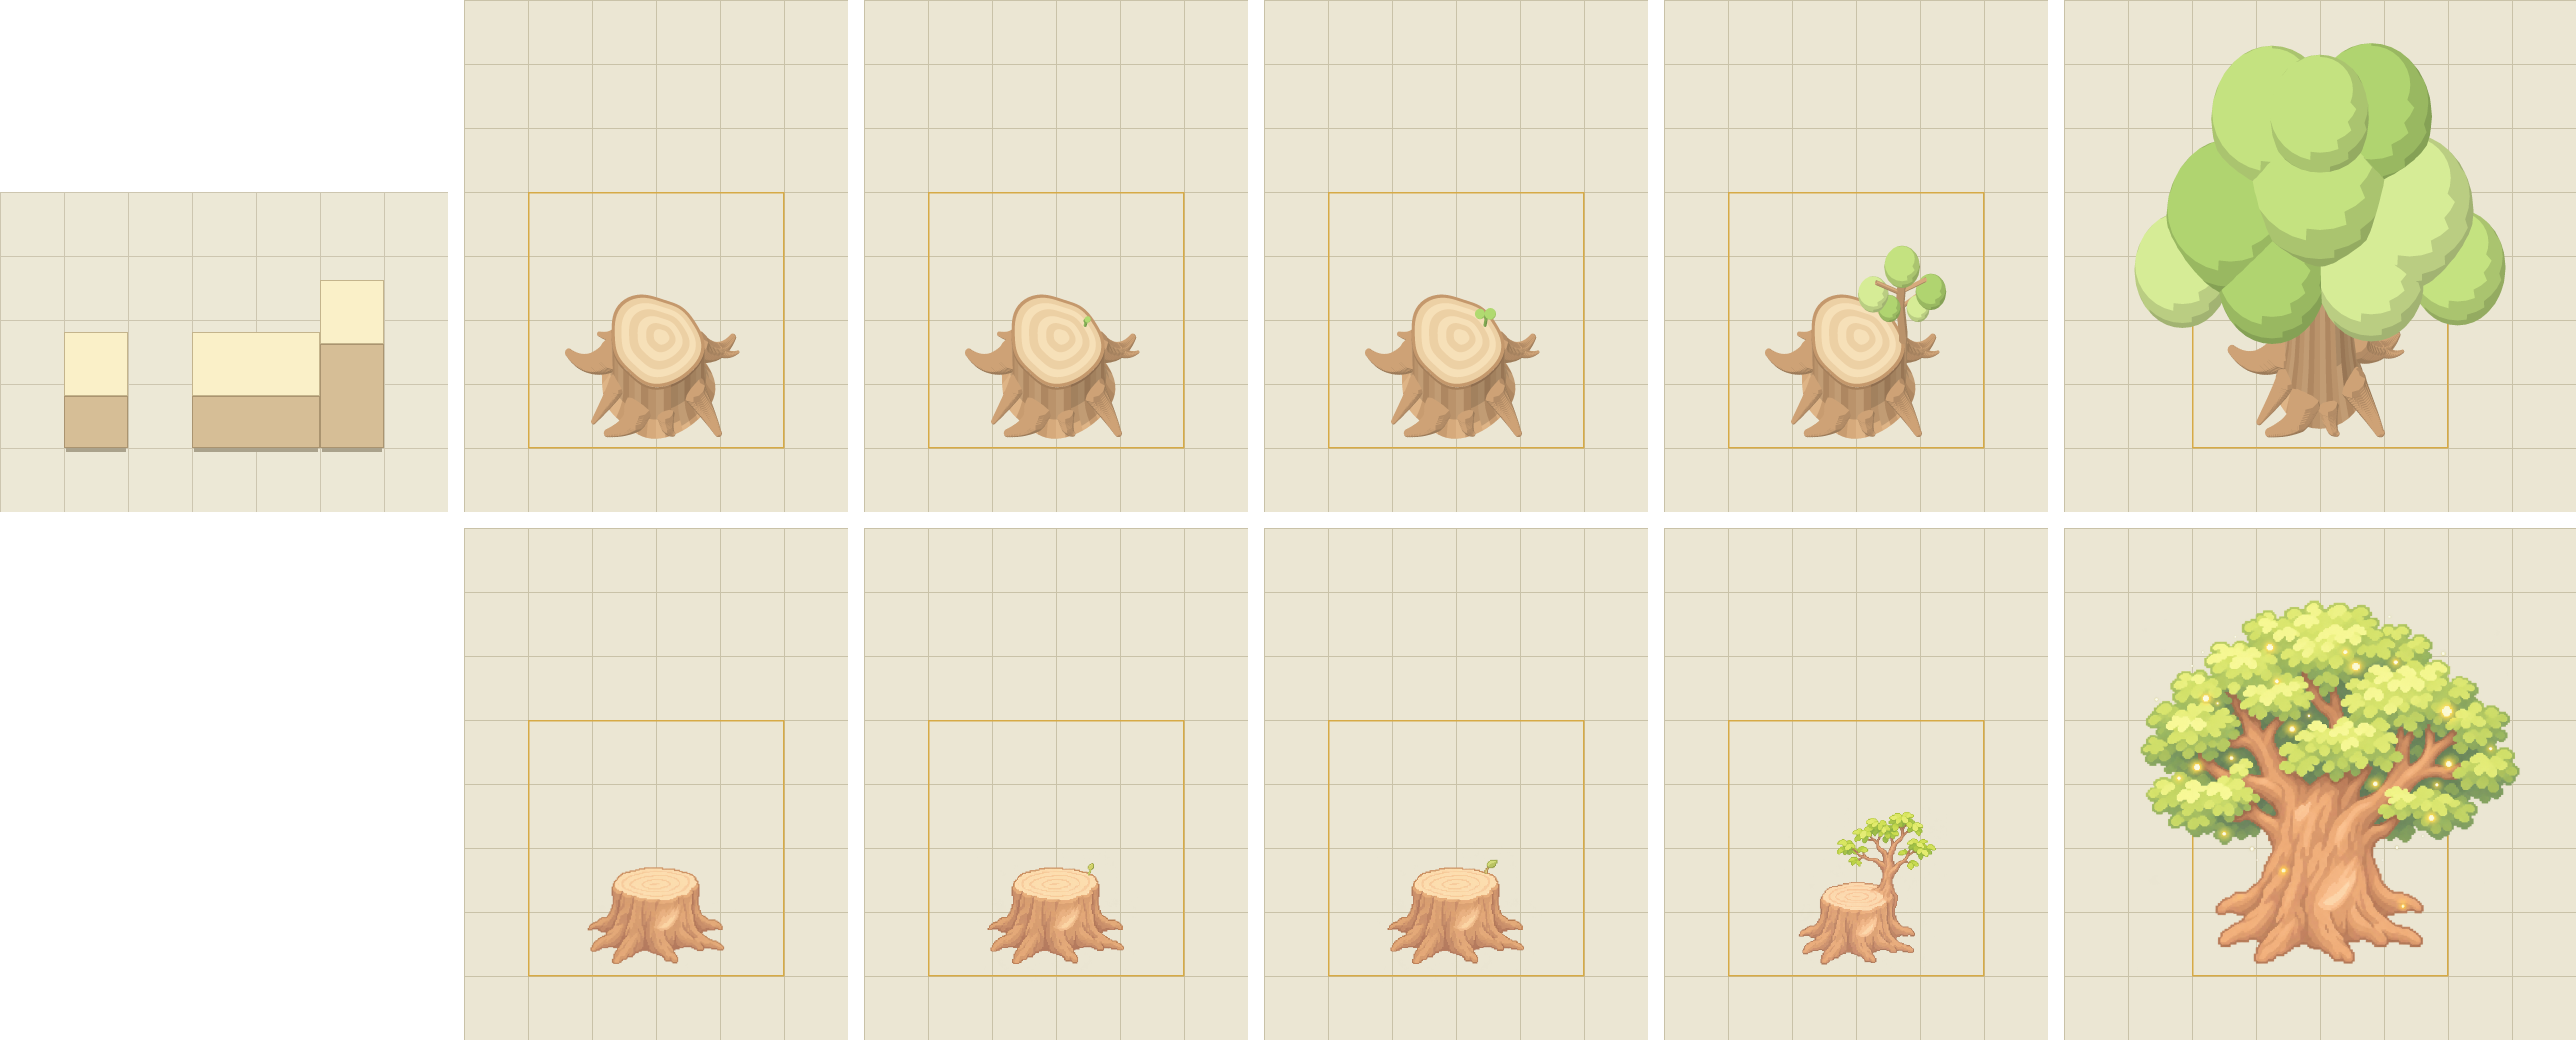
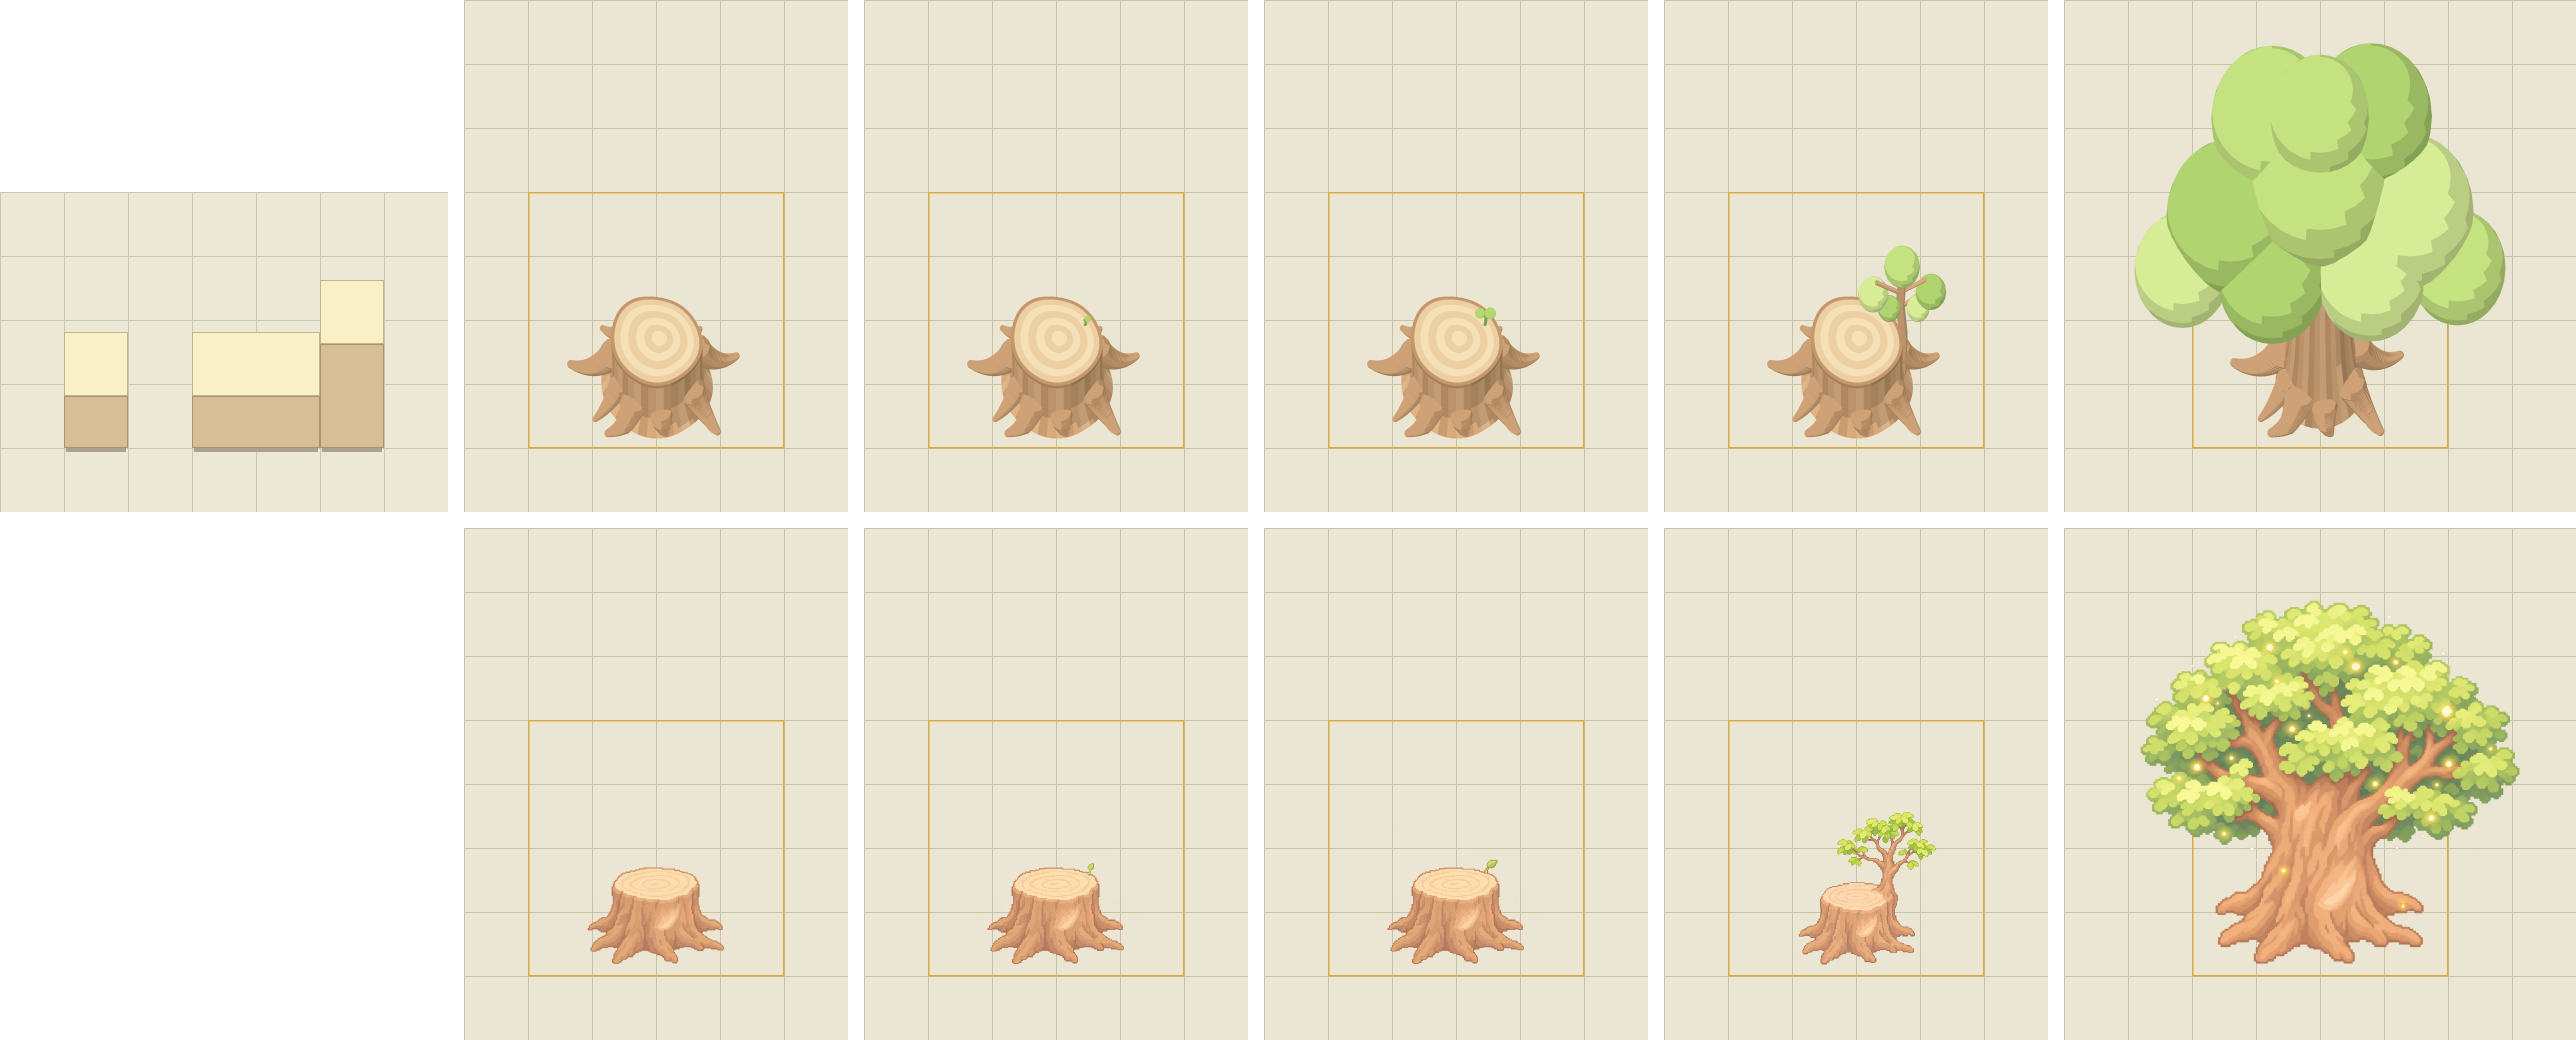
御神木のお手本：切り株と根のふぞろいを、いまの絵くらいにひかえる
Claude-Session: https://claude.ai/code/session_01JdcgfQYUXA3eiGLm8RY2PA

diff --git a/tools/art/sacred-tree/sacred3d.py b/tools/art/sacred-tree/sacred3d.py
@@ -13,11 +13,11 @@ LEAF=[(196,226,128),(176,212,112),(214,236,150)]   # 葉のかたまり
 
 def rough(a):
     """切り株・幹の、でこぼこの外がわ（まん丸にしない）。1が平均"""
-    return 1+0.06*math.sin(2*a+0.6)+0.04*math.sin(3*a+2.1)+0.02*math.sin(5*a+0.3)+0.008*math.sin(7*a+1.3)
+    return 1+0.035*math.sin(2*a+0.6)+0.02*math.sin(3*a+2.1)+0.01*math.sin(5*a+0.3)
 
-# 根：(向き, 長さ, 太さ, まがり, えだわかれ)。向きはばらばら、長さも太さもちがう。手前（+y）は y=3.81 をこえない
-ROOTS=[(-3.0,0.8,0.21,0.35,1),(-2.35,0.45,0.12,-0.2,0),(-1.75,0.55,0.15,0.3,0),(-0.95,0.4,0.11,-0.1,0),
-       (-0.35,0.75,0.19,-0.35,1),(0.55,0.6,0.18,0.3,0),(1.35,0.3,0.13,-0.2,0),(2.0,0.7,0.2,0.35,0),(2.7,0.5,0.14,-0.25,0)]
+# 根：(向き, 長さ, 太さ, まがり, えだわかれ)。いまの絵くらいの、ひかえめなふぞろい。手前（+y）は y=3.81 をこえない
+ROOTS=[(-3.0,0.7,0.2,0.15,1),(-2.3,0.5,0.15,-0.1,0),(-1.6,0.45,0.15,0.1,0),(-0.85,0.45,0.14,-0.1,0),
+       (-0.25,0.65,0.19,-0.15,0),(0.6,0.55,0.19,0.15,1),(1.45,0.4,0.16,-0.1,0),(2.15,0.6,0.19,0.15,0),(2.65,0.45,0.15,-0.1,0)]
 def roots(sc,r0,z0,k=1.0):
     """幹のすそから、ななめ下へのびて地面をはう根（つけ根が太く、先へいくほど細く低い。まがって、ときどき2本にわかれる）"""
     def one(a0,x0,y0,zs,L,t0,cv,steps=24):
@@ -35,8 +35,8 @@ def roots(sc,r0,z0,k=1.0):
             x,y,z,tt=pts[len(pts)//2];one(a+cv*0.5+0.6,x,y,z,L*k*0.45,tt*0.8,-0.3,12)
 
 def topz(x,y,HT):
-    """切り口の高さ：少しかたむいている（左おくが高い）"""
-    return HT+0.07*(CX-x)+0.05*(CY-y)
+    """切り口の高さ：ほんの少しかたむいている（左おくが高い）"""
+    return HT+0.02*(CX-x)+0.015*(CY-y)
 
 def stump(sc):
     R,HT=0.7,0.85     # 幹の半径（平均）・切り口の高さ（まん中）
@@ -52,7 +52,7 @@ def stump(sc):
             col=BARK[(i//2)%3] if j<len(hs)-2 else (190,146,104)   # いちばん上は、切り口のふちの皮
             sc.quad(wall(a0,hs[j]),wall(a1,hs[j]),wall(a1,hs[j+1]),wall(a0,hs[j+1]),col)
     # 切り口：年輪は、まん中がずれた、でこぼこの輪
-    ox,oy=CX+0.1,CY-0.07;sc.part()
+    ox,oy=CX+0.06,CY-0.04;sc.part()
     def ring(a,f):
         rx=R*rough(a)*(0.93 if f<=1 else 1.0);f=min(f,1.0);ex,ey=CX+rx*math.cos(a),CY+rx*math.sin(a)
         x,y=ox+(ex-ox)*f,oy+(ey-oy)*f;return (x,y,topz(x,y,HT)+0.002)

diff --git a/tools/art/sacred-tree/prompt.md b/tools/art/sacred-tree/prompt.md
@@ -1,6 +1,6 @@
 # 御神木（草原）の切り株・芽・若葉・若木・御神木の絵をたのむプロンプト
 
-いまの絵のデザインのまま、見おろしの角度をゲームに合わせ、切り株・根の形を自然にして、かきなおしてもらう。
+いまの絵のデザインのまま、見おろしの角度をゲームに合わせ、切り株・根は、いまの絵くらいの自然な形で、かきなおしてもらう。
 
 わたす絵は1まい：`ref/sacred_sheet.png`（`python3 tools/art/sacred-tree/sacred3d.py` で作る）。
 - 上の段：左はしがお手本のキューブ、そのみぎに 切り株・芽・若葉・若木・御神木 の3Dのお手本（角度・大きさ・置く場所のお手本）
@@ -12,12 +12,11 @@ Use the attached reference image as a strict guide. It is one sheet with two row
 - Top row: on the far left a view cube, then five 3D block-outs. They show the correct camera angle, size and position.
 - Bottom row: the current artwork of the same five objects, directly below each block-out, from left to right: 1 stump, 2 stump with a tiny sprout, 3 stump with a seedling, 4 stump with a young tree, 5 the fully grown sacred tree. They show the design.
 
-Task: redraw the five objects of the bottom row with the same design. Change only two things: the camera angle (match the top row) and a more natural shape of the stump and roots (see below). Keep everything else the same as the bottom row: the art style, pixel art look, colors, wood and bark texture, the sprout and leaves, the young tree's thin branches and leaf clusters, the big tree's trunk, branches, leaf clusters and the small golden light motes. Do not add or remove anything.
+Task: redraw the five objects of the bottom row with the same design. Change only two things: the camera angle (match the top row) and the stump and roots keep the natural, gently uneven look of the current artwork (see below). Keep everything else the same as the bottom row: the art style, pixel art look, colors, wood and bark texture, the sprout and leaves, the young tree's thin branches and leaf clusters, the big tree's trunk, branches, leaf clusters and the small golden light motes. Do not add or remove anything.
 
-Make it look natural, like a real old tree, not a symmetric icon:
-- The cut top has an irregular, slightly lumpy natural outline, not a perfect circle or oval. The cut is slightly slanted and uneven. The growth rings are irregular and off-center, following the lumpy outline, with a thin uneven rim of bark.
-- The roots are uneven and different from each other: different thickness, length and direction, some curving, one or two forking into a smaller root, thick buttresses at the base tapering into the ground. Not evenly spaced, not mirror-symmetric, not a star pattern.
-- The bark has gentle irregular grooves and slight bulges where the roots join.
+Natural shape, at the same level as the current artwork in the bottom row (do not exaggerate):
+- The cut top has a softly irregular outline like the current artwork, not a perfect geometric circle, but not lumpy or jagged either. The growth rings are gently uneven, as in the current artwork.
+- The roots are gently uneven like the current artwork: slightly different lengths and thickness, thick at the base and tapering into the ground. Not a perfectly even star pattern, but not wild or exaggerated either.
 
 Camera and proportions (copy the view cube and the block-outs exactly):
 - The view is a straight-on, front-facing top-down oblique view (classic top-down RPG angle). The camera looks from the south, tilted down; there is NO rotation and NO isometric angle.
